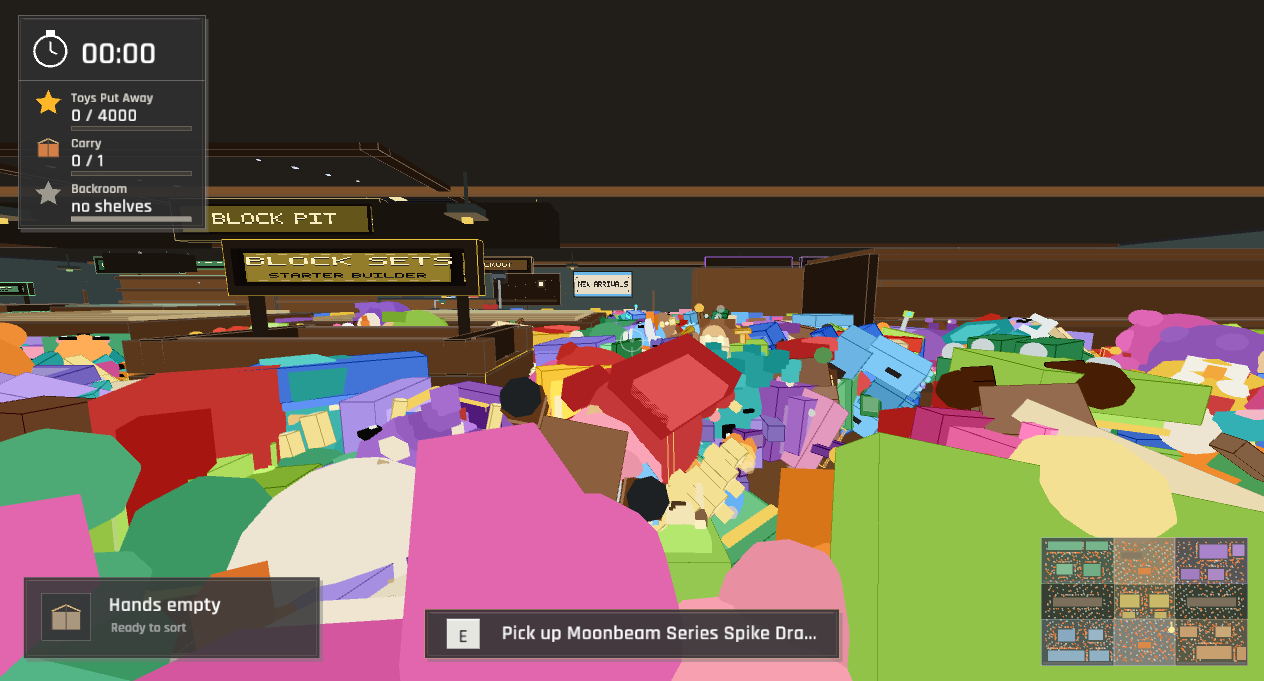
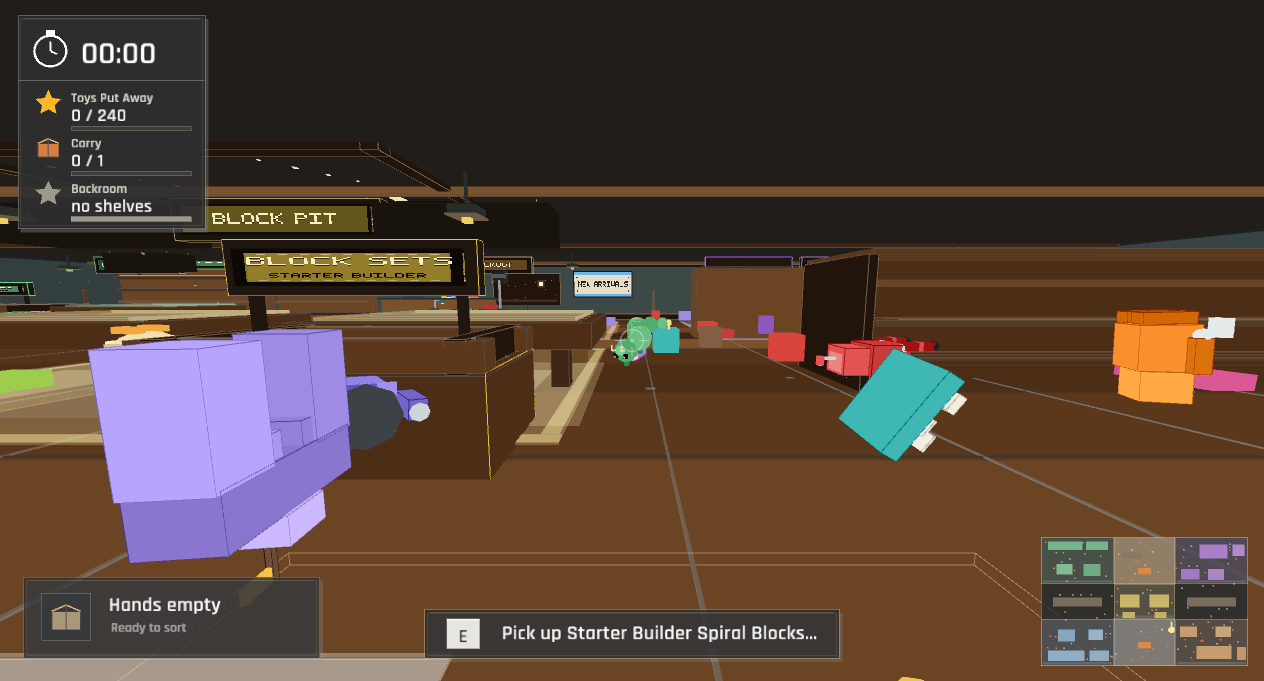
A shift was eight hours because the closer only used a quarter of the shop
Every category owns four displays, and `home_display_index` returned the first
that matched. That is not a shelf-choosing rule, it is a way to ignore three
quarters of the shop: the closer filled 1000 of the 4000 slots, and then
carried every remaining toy to a shelf that had been full for hours and
dropped it again. 9700 of an 8000-action shift went into that spin, and the
only visible symptom was a run that burned its whole budget with the floor
still covered — which the test suite read as normal, because it asserted the
budget was spent.

It now picks the nearest matching display with room, and the report prints
actions and toys-still-loose so a spin cannot hide again. The closer clears
the floor in 4673 actions instead of stalling at 969 shelved, and the test
asserts it ran out of work rather than out of budget.

With a trustworthy number the shop turned out to be worse than the TODO's
estimate, not better: 462 minutes bare-handed, 75km walked, one display
completed. All five tools cost 11 credits at one credit per completed
display, so the entire tool economy was unreachable for the whole game.

`shop_scale_sets_the_length_of_a_shift` sweeps capacity to make that a
decision rather than a guess. Cost per toy is ~7.6s at every size, so length
is linear in toy_count — but completed displays are not, because one
unrepaired toy holds a whole display open, and at capacity 200 that means a
display almost never closes. Retuned to 240 toys, 12 per display: 28 minutes
[…]

diff --git a/src/state/tests/replay.rs b/src/state/tests/replay.rs
@@ -93,6 +93,11 @@ struct RunReport {
     grabbed_neighbour: usize,
     deferred_parts: usize,
     displays_complete: usize,
+    /// Toys still on the floor when the run stopped. Together with `actions`
+    /// this says whether a short run ran out of budget or stalled: a run that
+    /// spent its whole budget and left most of the shop loose is doing
+    /// something other than shelving.
+    still_loose: usize,
     walked_metres: f32,
     minutes: f32,
 }
@@ -100,9 +105,12 @@ struct RunReport {
 impl RunReport {
     fn line(&self, name: &str) -> String {
         format!(
-            "{name:>15}: {:>5} shelved  {:>3} repaired  {:>2} mistakes  \
-             {:>3} deferred  {:>4} whiffed  {:>4} neighbour  {:>2} displays  {:>6.0}m walked               {:>5.1} min",
+            "{name:>15}: {:>5} actions  {:>5} shelved  {:>5} loose  {:>3} repaired  \
+             {:>2} mistakes  {:>4} deferred  {:>4} whiffed  {:>4} neighbour  \
+             {:>2} displays  {:>6.0}m walked  {:>6.1} min",
+            self.actions,
             self.shelved,
+            self.still_loose,
             self.repaired,
             self.mistakes,
             self.deferred_parts,
@@ -321,10 +329,38 @@ fn counterpart_index(session: &GameSession, toy_index: usize) -> Option<usize> {
     })
 }
 
-fn home_display_index(data: &GameData, toy: &ToyState) -> Option<usize> {
+/// Where a toy belongs: the nearest display of its category and theme that
+/// still has a free slot.
+///
+/// Every category owns four displays, so "the first one that matches" is not a
+/// shelf-choosing rule, it is a way to ignore three quarters of the shop. A
+/// closer using it fills 1000 of the 4000 slots, and then every remaining toy
+/// it picks up is carried to a shelf that has been full for hours and dropped
+/// again — 9700 wasted actions in an 8000-action shift, which is what made a
+/// full shop look unfinishable. Room first, then distance, because a player
+/// who walks to a full shelf has to walk somewhere else anyway.
+fn home_display_index(
+    data: &GameData,
+    toy: &ToyState,
+    next_slot: &[usize],
+    from: Vec2,
+) -> Option<usize> {
     data.displays
         .iter()
-        .position(|display| toy_matches_display(toy, display))
+        .enumerate()
+        .filter(|(index, display)| {
+            toy_matches_display(toy, display) && next_slot[*index] < display.capacity
+        })
+        .min_by(|(_, left), (_, right)| {
+            display_centre(left)
+                .distance_squared(from)
+                .total_cmp(&display_centre(right).distance_squared(from))
+        })
+        .map(|(index, _)| index)
+}
+
+fn display_centre(display: &crate::data::DisplayDef) -> Vec2 {
+    vec2(display.x + display.w * 0.5, display.y + display.h * 0.5)
 }
 
 /// Bench a carried repair part, repairing if its other half is already there.
@@ -485,7 +521,9 @@ fn run(scenario: &Scenario, data: &GameData, action_budget: usize) -> RunReport 
         let Some(active) = session.active_toy().cloned() else {
             continue;
         };
-        let Some(display_index) = home_display_index(data, &active) else {
+        let Some(display_index) =
+            home_display_index(data, &active, &next_slot, session.player.position.to_vec2())
+        else {
             session.drop_active(data);
             continue;
         };
@@ -550,6 +588,13 @@ fn run(scenario: &Scenario, data: &GameData, action_budget: usize) -> RunReport 
         grabbed_neighbour: neighbours,
         deferred_parts: deferred.len(),
         displays_complete: session.completed_display_count(),
+        still_loose: session
+            .toys
+            .iter()
+            .filter(|toy| {
+                !toy.is_held && toy.placed_display_id.is_none() && !toy.is_consumed_repair_part()
+            })
+            .count(),
         walked_metres: walked,
         minutes: session.player.elapsed_seconds / 60.0,
     }
@@ -561,19 +606,38 @@ fn a_replay_is_reproducible() {
     assert_eq!(run(&BEGINNER, &data, 300), run(&BEGINNER, &data, 300));
 }
 
+/// A bare-handed closer must be able to empty the floor of whole toys, and to
+/// do it without spinning. Both halves matter: a closer that only ever walks to
+/// the *first* display of each category fills a quarter of the shop and then
+/// carries every remaining toy to a shelf that has been full for hours, and the
+/// only symptom is a run that burns its whole budget with the floor still
+/// covered. Asserting on the budget is what hid that for so long.
 #[test]
-fn the_closer_makes_real_progress_without_misshelving() {
+fn the_closer_clears_the_floor_without_misshelving() {
     let data = GameData::load().unwrap();
-    let report = run(&BEGINNER, &data, 400);
+    let budget = data.config.toy_count * 4;
+    let report = run(&BEGINNER, &data, budget);
 
-    assert_eq!(report.actions, 400);
-    assert!(report.shelved > 0, "nothing reached a shelf");
+    assert!(report.actions < budget, "the closer never ran out of work");
     assert_eq!(
         report.mistakes, 0,
         "the closer only ever targets a toy's own display, so any mistake is \
          a bug in placement or matching"
     );
     assert!(report.walked_metres > 0.0);
+
+    // What is left on the floor should be the repair parts this strategy
+    // deliberately defers, not whole toys it could not find a home for.
+    // Saturating because the deferred set can outnumber what is actually loose:
+    // a toy the crosshair handed over as a neighbour gets shelved even though
+    // its index was written off earlier.
+    let whole_left = report.still_loose.saturating_sub(report.deferred_parts);
+    assert!(
+        whole_left * 20 < data.config.toy_count,
+        "{whole_left} whole toys never reached a shelf out of {}: the closer is \
+         running out of somewhere to put them",
+        data.config.toy_count
+    );
 }
 
 /// Nothing the renderer reads may reach the score. These five values decide
@@ -699,7 +763,40 @@ fn tools_pay_for_themselves_over_the_same_work() {
 fn a_full_shift_completes_the_shop() {
     let data = GameData::load().unwrap();
     for scenario in [BEGINNER, FULLY_EQUIPPED] {
-        let report = run(&scenario, &data, data.config.toy_count * 2);
+        let report = run(&scenario, &data, data.config.toy_count * 4);
         println!("{}", report.line(scenario.name));
+    }
+}
+
+/// What a shift costs at each shop size, for deciding `toy_count`.
+///
+/// Every display holds the same number, so one knob moves the whole shop and
+/// keeps the capacity-equals-`toy_count` invariant intact. Run it with
+/// `cargo test --release shop_scale -- --ignored --nocapture`.
+///
+/// Note that `displays` stays near zero at every size: a display cannot
+/// complete until its broken toys are rejoined, and this closer defers the
+/// repair errand rather than running it. Read the shelved/minutes columns for
+/// length and `the_restoration_errand_is_winnable` for the other half.
+#[test]
+#[ignore = "shop-scaling sweep: for retuning toy_count, not part of the normal suite"]
+fn shop_scale_sets_the_length_of_a_shift() {
+    let base = GameData::load().unwrap();
+
+    for per_display in [8usize, 12, 20, 40, 100, 200] {
+        let mut data = base.clone();
+        for display in &mut data.displays {
+            display.capacity = per_display;
+        }
+        data.config.toy_count = per_display * data.displays.len();
+
+        for scenario in [BEGINNER, FULLY_EQUIPPED] {
+            let report = run(&scenario, &data, data.config.toy_count * 4);
+            println!(
+                "cap {per_display:>3} / {:>4} toys  {}",
+                data.config.toy_count,
+                report.line(scenario.name)
+            );
+        }
     }
 }

diff --git a/TODO.md b/TODO.md
@@ -2,7 +2,7 @@
 
 ## Repair flow at scale
 
-- The cross-zone scatter is **deliberate** — hunting scattered halves and rejoining them is a pillar of the game alongside sorting, and must not be shortened to make repairs cheaper. Measured on its own terms in `state/tests/replay.rs` (`Strategy::Restorer`), the errand is fully winnable: 100 repairs in 200 actions with nothing deferred, at ~55m walked and ~19s per pair. The earlier "zero repairs" figure came from a nearest-first closer, which measures the sorting loop and never runs the errand at all.
+- The cross-zone scatter is **deliberate** — hunting scattered halves and rejoining them is a pillar of the game alongside sorting, and must not be shortened to make repairs cheaper. Measured on its own terms in `state/tests/replay.rs` (`Strategy::Restorer`), the errand is fully winnable: at the 240-toy shop that is all 28 broken pairs in 56 actions with nothing deferred, ~18s per pair. Cost per pair is unchanged by the shop retune; there are simply fewer pairs. The earlier "zero repairs" figure came from a nearest-first closer, which measures the sorting loop and never runs the errand at all.
 - Repairs are gated on owning the Toy Scanner in practice — without it there is no way to learn where a carried part's other half went, so the errand is a blind search. Decide whether that gate is intended, or whether an unaided player needs some weaker signal.
 - Mistake penalty and timer are still untuned against `assets/data/*.json`.
 - Repair parts render per *category* but not per *identity* — every plush head is the same model, so a broken Bear and a broken Octopus are indistinguishable while split. Decide whether identity-level parts are worth 50×2 renderers or whether identity-derived detail on the existing 10 is enough.
@@ -10,7 +10,17 @@
 ## Game loop and progression
 
 - Rework the finish condition and finish screen around zone milestones now that per-zone completion exists (`GameSession::zone_progress`). Note a zone caps at ~88% until its broken toys are repaired.
-- **Decide an intended run length — the current one is far too long.** Replay measures ~342 toys shelved per 400 actions at 18.8 min; the full 4000-toy shop extrapolates to roughly 3.7 hours, and no display completes in the first 400 actions. Either cut `toy_count`, raise display throughput, or make a shift a slice of the shop.
+- **Run length is decided: 240 toys, 12 per display.** A shift is ~28 min bare-handed and ~17 min fully equipped, and 12 displays complete against the 11 credits all five tools cost — so the tool economy closes with a little room, and buying tools visibly shortens the run. Measured by `shop_scale_sets_the_length_of_a_shift` (`cargo test --release shop_scale -- --ignored --nocapture`), which sweeps capacity and is the thing to re-run before changing `toy_count` again:
+
+  | capacity | toys | bare-handed | equipped | displays done |
+  |---|---|---|---|---|
+  | 8 | 160 | 19.4 min | 11.5 min | 13 |
+  | **12** | **240** | **28.0 min** | **16.8 min** | **12** |
+  | 20 | 400 | 47.4 min | 27.3 min | 8 |
+  | 40 | 800 | 93.0 min | 56.3 min | 6 |
+  | 200 | 4000 | 462.8 min | 328.1 min | 1 |
+
+  Cost per toy is ~7.6s bare-handed at every size, so length is linear in `toy_count`; what is *not* linear is completed displays, which collapse as capacity grows because one unrepaired toy holds a whole display open. The old 4000-toy shop completed a single display in nearly eight hours, which put every one of the five tools out of reach for the entire game.
 - Give a run a clear arc: an opening-time deadline with a score screen (toys shelved, repairs, mistakes, zones done) plus a relaxed untimed mode.
 
 ## Polish
@@ -19,7 +29,8 @@
 
 ## Engineering
 
-- Balance the five tools against measured pacing. Per minute over 400 actions: bare-handed 8.3 toys, trolley+scanner 10.3, fully equipped 12.6. The trolley now clearly pays (it used to measure *worse* than bare hands — see below); the speed tools stack on top. Note that mid-upgrade shelves fewer toys than a beginner over the same *action* budget (194 vs 275) and more per *minute*, because gathering a same-display armful means walking to specific toys. Minutes are the currency that matters.
+- Balance the five tools against measured pacing. Over a whole 240-toy shift: bare-handed 28.0 min, trolley+scanner 21.1, fully equipped 16.8 — so a full toolset is worth about 40% of the run. The trolley now clearly pays (it used to measure *worse* than bare hands); the speed tools stack on top.
+- The replay closer used to walk every toy to the **first** display of its category, ignoring the other three. That fills a quarter of the shop and then spins, carrying each remaining toy to a shelf that has been full for hours and dropping it again — 9700 wasted actions in an 8000-action shift. Every "the shop is unfinishable" number before this was measuring that, not the game. `home_display_index` now picks the nearest matching display *with room*, and `the_closer_clears_the_floor_without_misshelving` asserts the run ends because it ran out of work rather than out of budget.
 - Placement still goes through `place_active_toy` rather than aiming at a shelf slot, so the numbers cover the cost of *finding* a toy but not of *placing* it.
 - The "crosshair misses half the time" reading was **two different things added together**, and the report now splits them:
   - *Whiffed* — the crosshair delivered nothing. Bare-handed this is **zero**; the cone is fine. What produced 175 whiffs was the Sorting Trolley having no input path at all (fixed: `E` on a loose toy now loads the armful when there is room). The 66 that remain are the closer aiming at a toy that sits in front of a free shelf slot, where `E` correctly shelves instead — real friction, but the right precedence.
